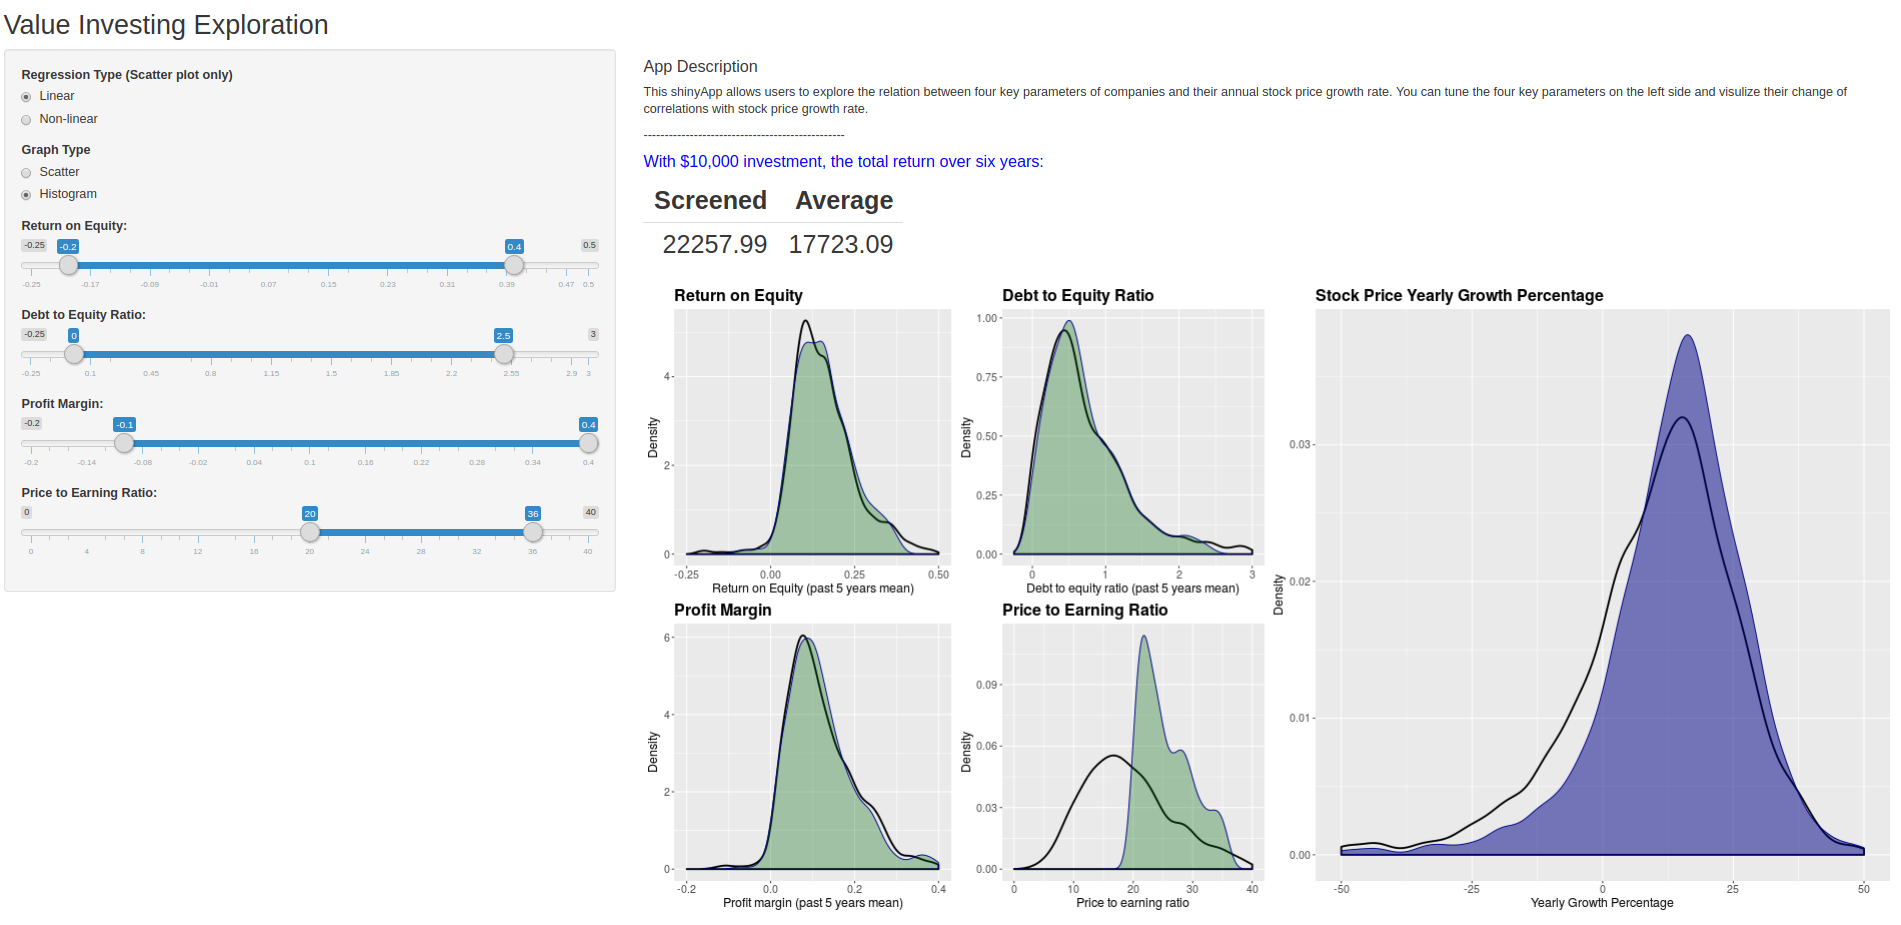
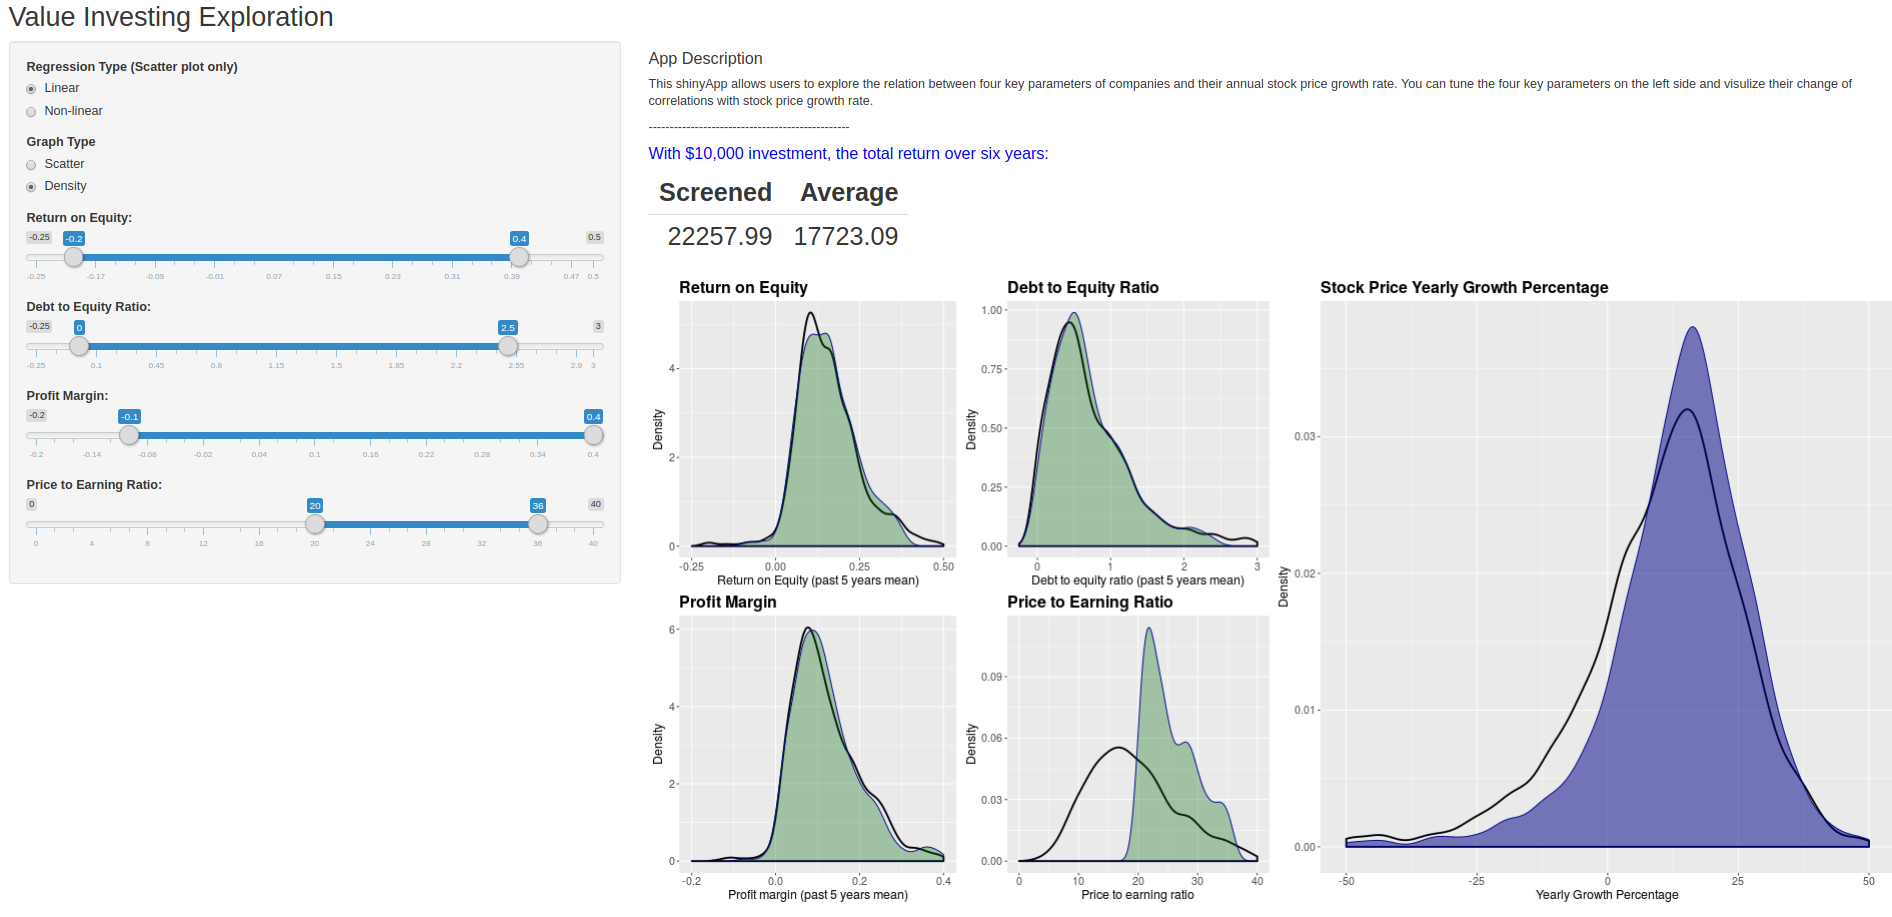
README updated

diff --git a/README.md b/README.md
@@ -2,7 +2,7 @@
 
 Shun Chi
 
-2018-01-21
+2018-01-28
 
 This is a interactive shinyApp that allows people to explore the four key parameters and test empirically the value investing strategy in stock market.
 
@@ -11,3 +11,17 @@ App link: https://shunchi.shinyapps.io/stock_screening/
 Release V2.0 (milestone 3): https://github.com/ShunChi100/stock_screening/tree/V2.0
 
 Release V1.0 (milestone 2): https://github.com/ShunChi100/stock_screening/tree/V1.0
+
+The four key parameters that can quantify the intrinsic value of a company are
+* Return on Equity (ROE),
+* Debt to Equity Ratio (DEratio),
+* Profit Margin (Profit_Margin),
+* Price to Earning ratio (PEratio).
+
+On the left-hand side, the options for displaying graphs are provided: __scatter plot__ or __density plot__. In addition, the choices for the regression fits are also available for scatter plot. Users can modify the range of four key parameters using the sliders. The plots react accordingly. On top of the main panel, we showed the net asset if investing between 2011 and 2017 with the initial input of $10,000.
+
+#### Scatter View
+![](./img/scatter.png)
+
+#### Density View
+![](./img/density.png)
